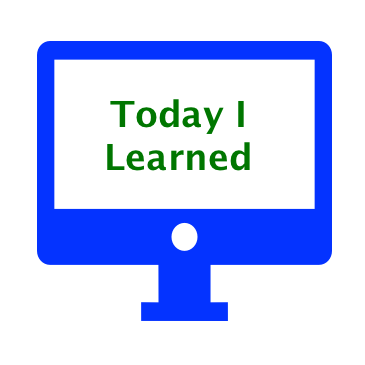
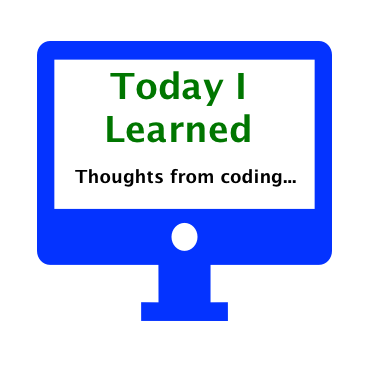
updated image

Changed region(s): [[0.211, 0.1808, 0.8137, 0.5123]]

diff --git a/README.md b/README.md
@@ -5,8 +5,7 @@
 
 -------------------------------------------------
 <p align="center">
-  <img src="https://github.com/EdwardRutz/TIL/blob/master/images/TIL.png"> <br>
-  <strong><i>Thoughts from coding...</i></strong>
+  <img src="https://github.com/EdwardRutz/TIL/blob/master/images/TIL.png">
 </p>
 
 
